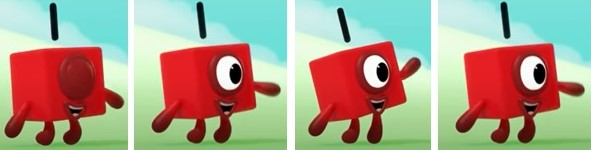
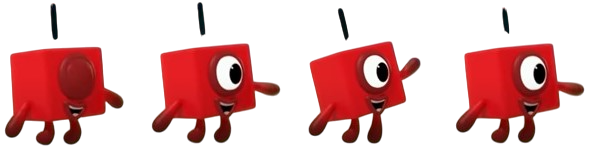
cambios spritesheet

diff --git a/TP4/EntregaFinal/html/parte_ani.html b/TP4/EntregaFinal/html/parte_ani.html
@@ -158,11 +158,11 @@
         </div>
 
         <div class="character2_spritsheet">
-            <img src="../img/character2_spritsheet.jpg" class="character2" alt="">
+            <img src="../img/character2_spritsheet.png" class="character2" alt="">
         </div>
 
         <div class="character3_spritsheet">
-            <img src="../img/character3_spritsheet.jpg" class="character3" alt="">
+            <img src="../img/cc-Photoroom.png" class="character3" alt="">
         </div>
     </footer>
 

diff --git a/TP4/EntregaFinal/css/stylesAni.css b/TP4/EntregaFinal/css/stylesAni.css
@@ -384,13 +384,13 @@ header button {
 }
 
 .character_spritsheet{
-    width: 85px;
+    width: 100px;
     height: 400px;
     left: 15px;
 }
 
 .character2_spritsheet{
-    width: 86px;
+    width: 90px;
     height: 300px;
     left: 15px;
     bottom: 0px;
@@ -416,7 +416,7 @@ header button {
 }
 
 .character3{
-    animation: number_spritsheet 1s steps(8) infinite;
+    animation: number_spritsheet 1s steps(4) infinite;
 }
 
 @keyframes number_spritsheet {
